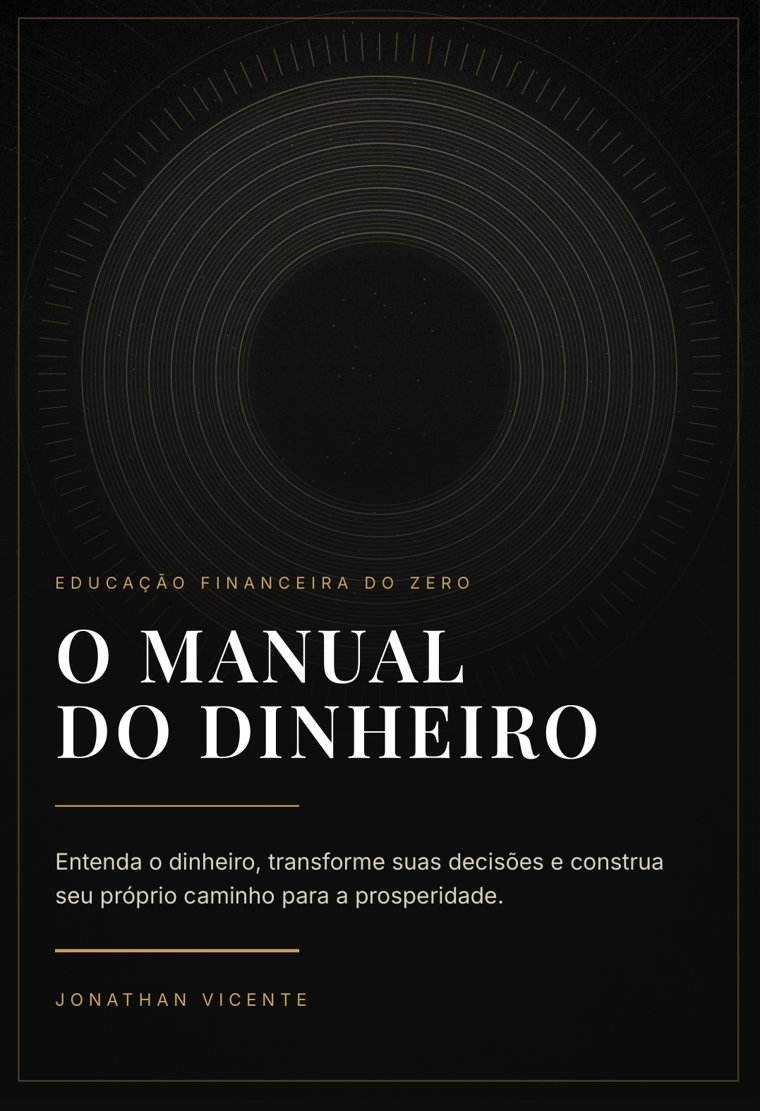
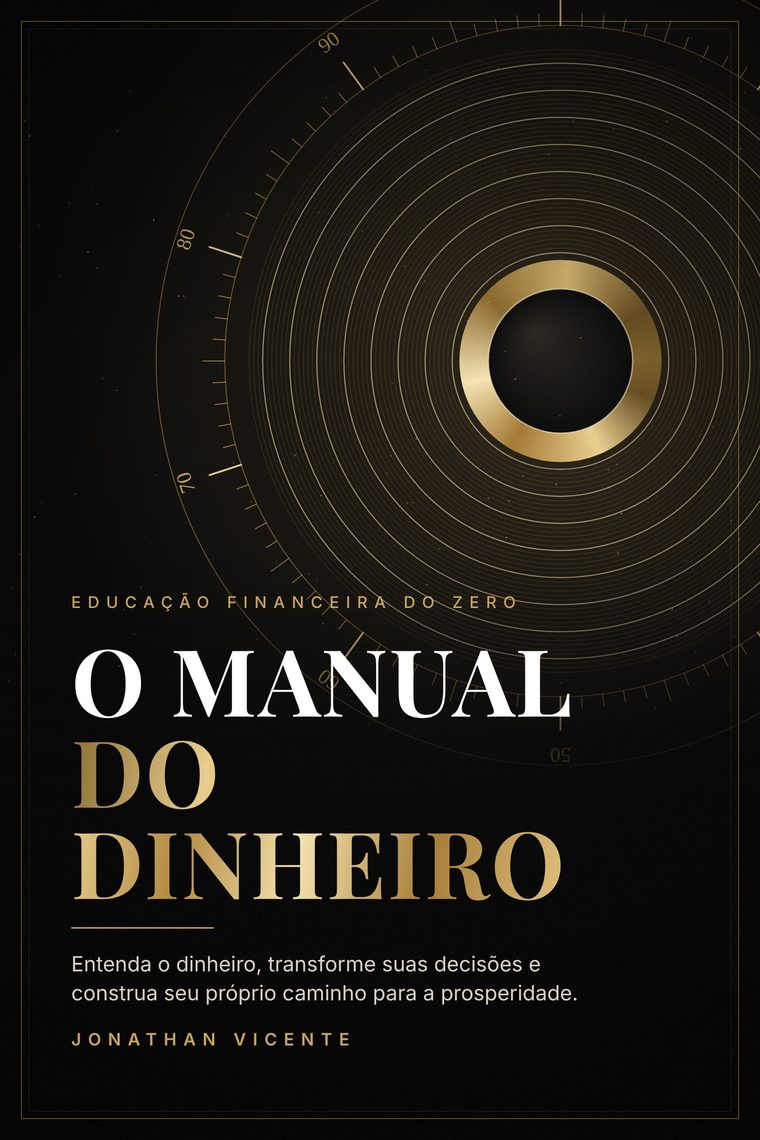
Nova capa (O Cofre) na página de vendas
Claude-Session: https://claude.ai/code/session_011phAEhaoQ7Pmh69kfYFnJA

diff --git a/index.html b/index.html
@@ -106,7 +106,7 @@ body::before{content:"";position:fixed;inset:0 0 auto;height:env(safe-area-inset
 
 /* livro 3D */
 .book-stage{perspective:1600px;display:flex;justify-content:center;padding:20px 0}
-.book{position:relative;width:min(360px,72vw);aspect-ratio:760/1111;transform-style:preserve-3d;transform:rotateY(-24deg) rotateX(4deg);transition:transform .8s cubic-bezier(.2,.7,.2,1);animation:float 7s ease-in-out infinite}
+.book{position:relative;width:min(360px,72vw);aspect-ratio:2/3;transform-style:preserve-3d;transform:rotateY(-24deg) rotateX(4deg);transition:transform .8s cubic-bezier(.2,.7,.2,1);animation:float 7s ease-in-out infinite}
 .book:hover{transform:rotateY(-10deg) rotateX(2deg)}
 @keyframes float{0%,100%{translate:0 0}50%{translate:0 -10px}}
 .book img{position:absolute;inset:0;width:100%;height:100%;object-fit:cover;border-radius:2px 4px 4px 2px;box-shadow:0 40px 80px -20px rgba(0,0,0,.9),0 0 0 1px rgba(201,164,92,.25);transform:translateZ(14px)}
